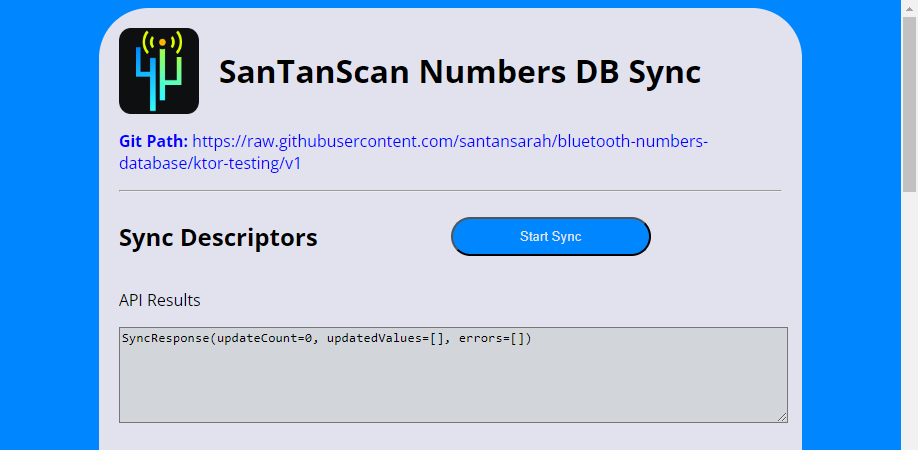
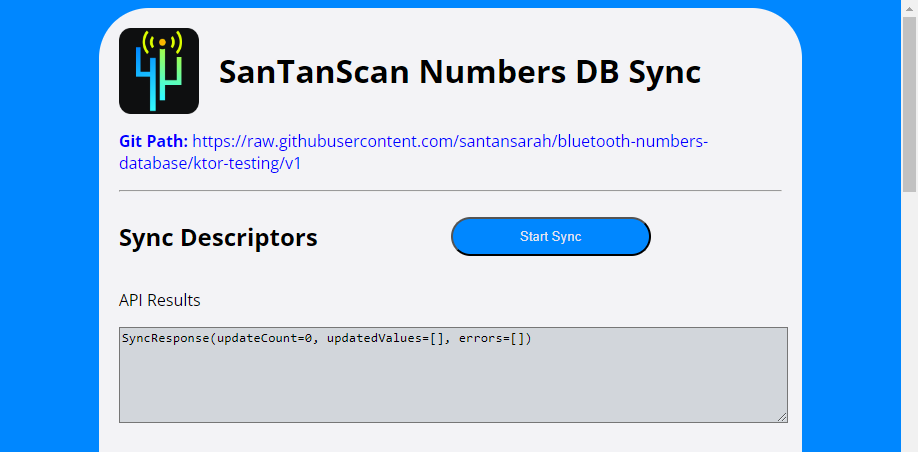
Fixed background color.

diff --git a/src/jsMain/kotlin/App.kt b/src/jsMain/kotlin/App.kt
@@ -27,7 +27,7 @@ val App = FC<AppProps> {
             width = 75.pct
             padding = 20.px
             height = 100.pc
-            backgroundColor = Color("#e2e2ef")
+            backgroundColor = Color("#f3f3f6")
             borderRadius = 50.px
         }
 

diff --git a/README.md b/README.md
@@ -8,11 +8,12 @@ This app uses a pre-populated Room database that includes imported BLE Services,
 information from Nordic's [Bluetooth Numbers Database](https://github.com/NordicSemiconductor/bluetooth-numbers-database).
 
 Nordic's database might be updated from time to time, and I wanted a way to easily update my SQLite data without having
-to manually recreate my database every time. To accomplish that, I created a Kotlin/JS/React/Ktor Multiplatform app 
+to manually recreate my database every time. To accomplish this, I created a Kotlin/JS/React/Ktor Multiplatform app 
 that does the following when you click `Start Sync`:
 
 1. From the frontend, it calls a Ktor API path to `/descriptors`, using Ktor Http Client for JS.
-2. From the API, it goes out to GitHub and reads the Raw JSON, using Ktor Http Client CIO.
+2. From the API, it goes out to GitHub and reads the Raw JSON, using Ktor Http Client CIO. Here's an
+   example of `descriptor_uuids.json` with added rows: [descriptor_uuids.json](https://github.com/santansarah/bluetooth-numbers-database/blob/ktor-testing/v1/descriptor_uuids.json)
 3. Next, the API converts the Raw JSON to an object.
 4. Using Exposed, the API then reads the existing data from the SQLite database, and creates a list of 
    all **new** Descriptors.
